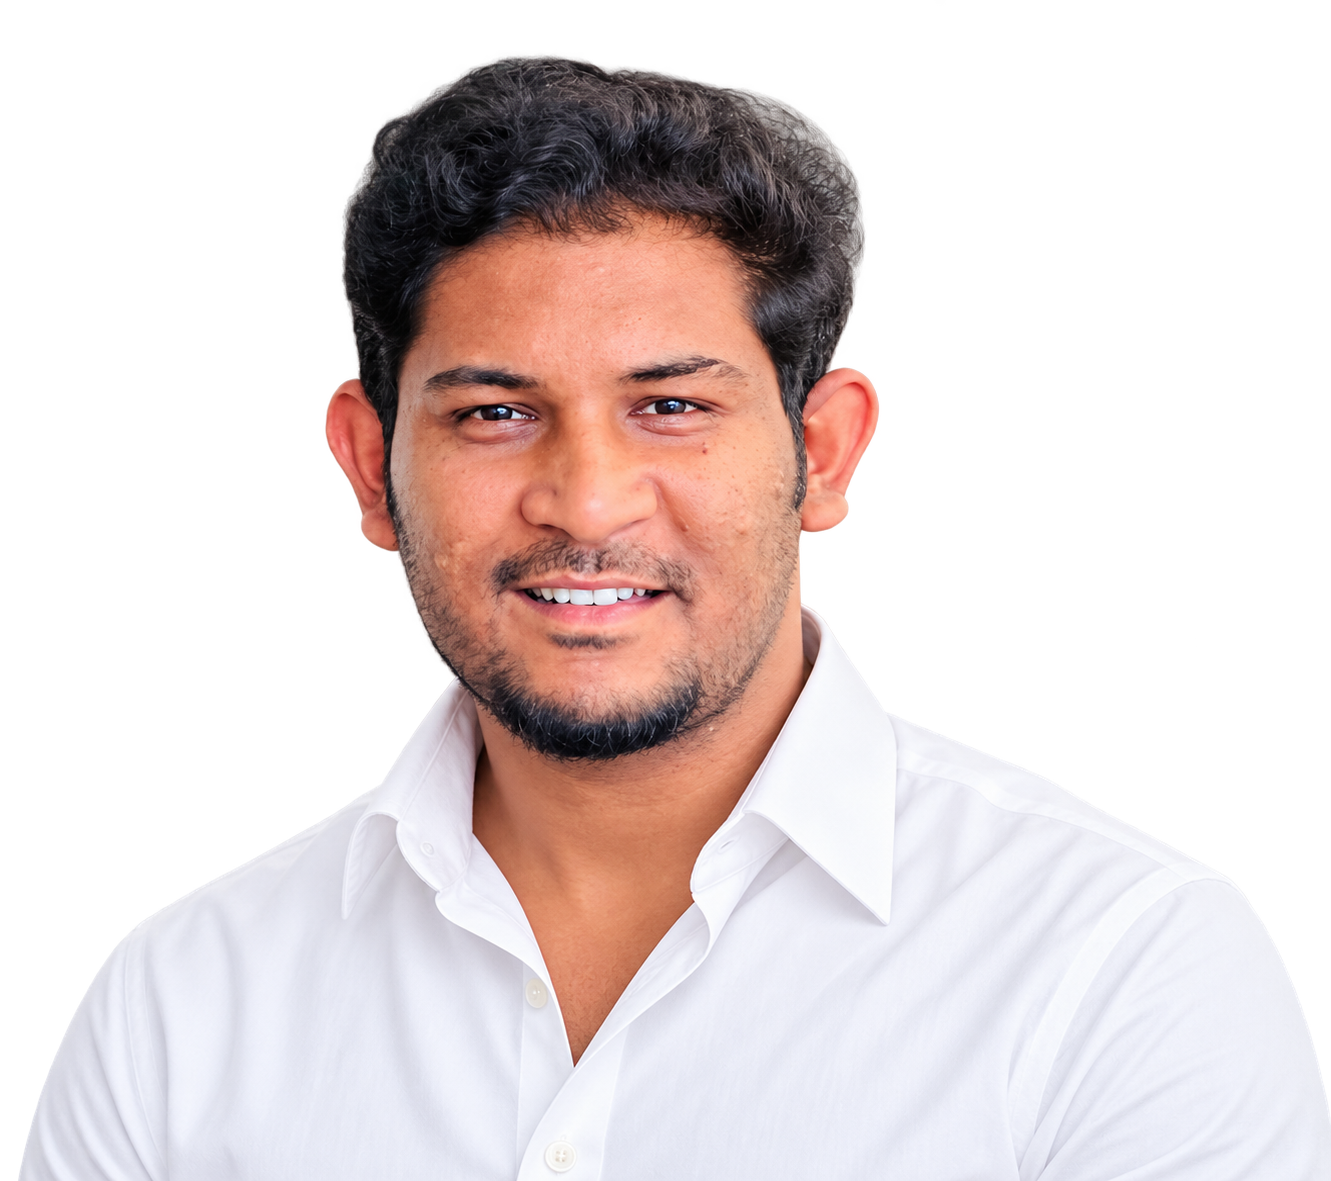
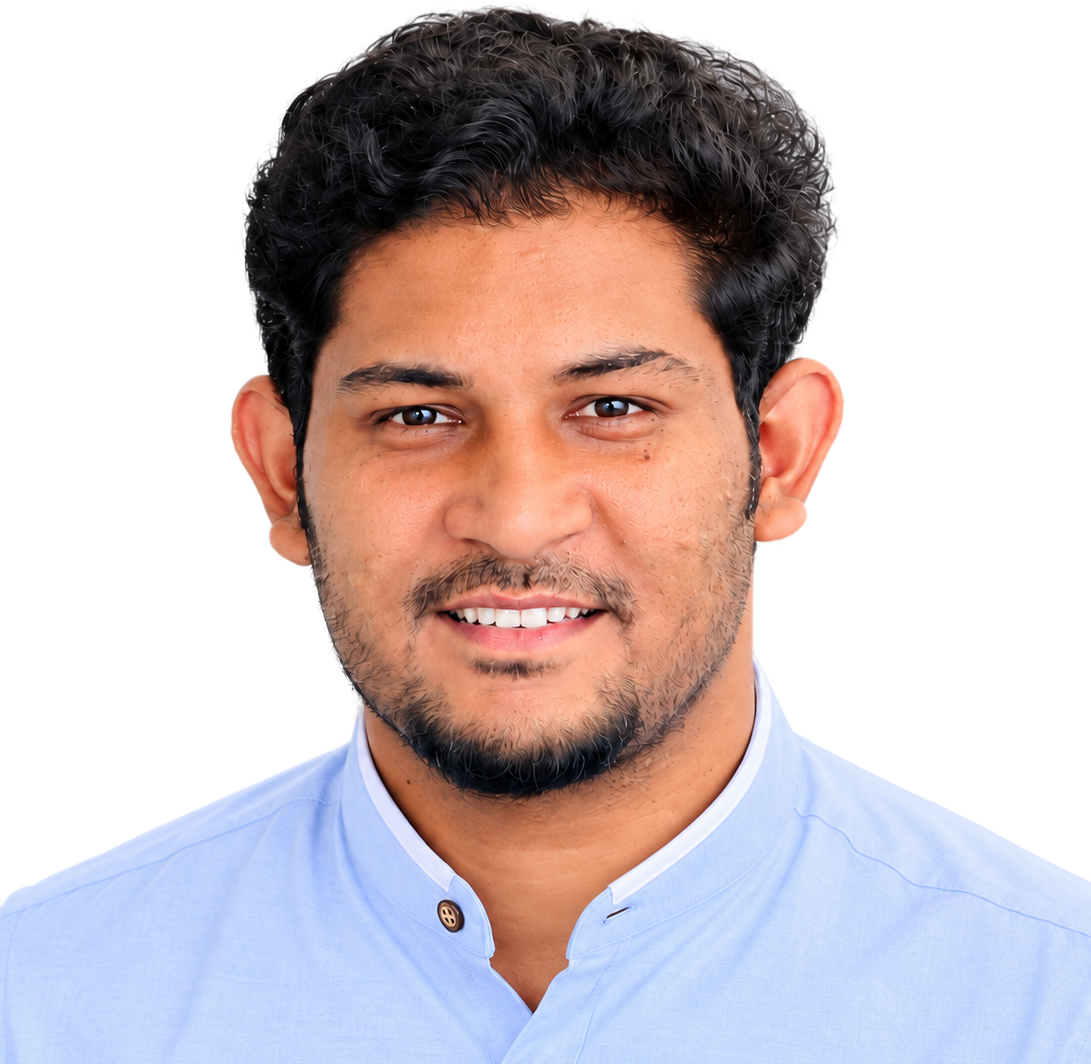
New profile photo in the About card
Claude-Session: https://claude.ai/code/session_012Gt6r9shSSEFMAuLwCnhPu

diff --git a/src/app/components/About.tsx b/src/app/components/About.tsx
@@ -8,7 +8,7 @@ import { useEffect, useId, useRef, useState } from "react";
 //  • portrait.jpg — normal photo: fills the panel (its own background covers the stripes)
 const PHOTO_SOURCES = ["/portrait.png", "/portrait.jpg"];
 // Where your face sits across the photo (0–100). 50 = centre. Adjust if your new photo looks off-centre.
-const PHOTO_FACE_X = 38;
+const PHOTO_FACE_X = 50;
 const FIRST_NAME = "Abdul";
 const LAST_NAME = "Nawfal"; // second line under the first name
 const POSITION = "UI/UX & Product Designer";
@@ -120,7 +120,7 @@ function ProfileCard() {
               style={isCutout ? { transform: `translateX(-${PHOTO_FACE_X}%)` } : undefined}
               className={
                 isCutout
-                  ? "absolute -bottom-[2%] left-1/2 z-[1] h-[90%] w-auto max-w-none object-contain"
+                  ? "absolute bottom-0 left-1/2 z-[1] h-[80%] w-auto max-w-none object-contain"
                   : "absolute inset-0 z-[1] h-full w-full object-cover object-[50%_25%]"
               }
             />
